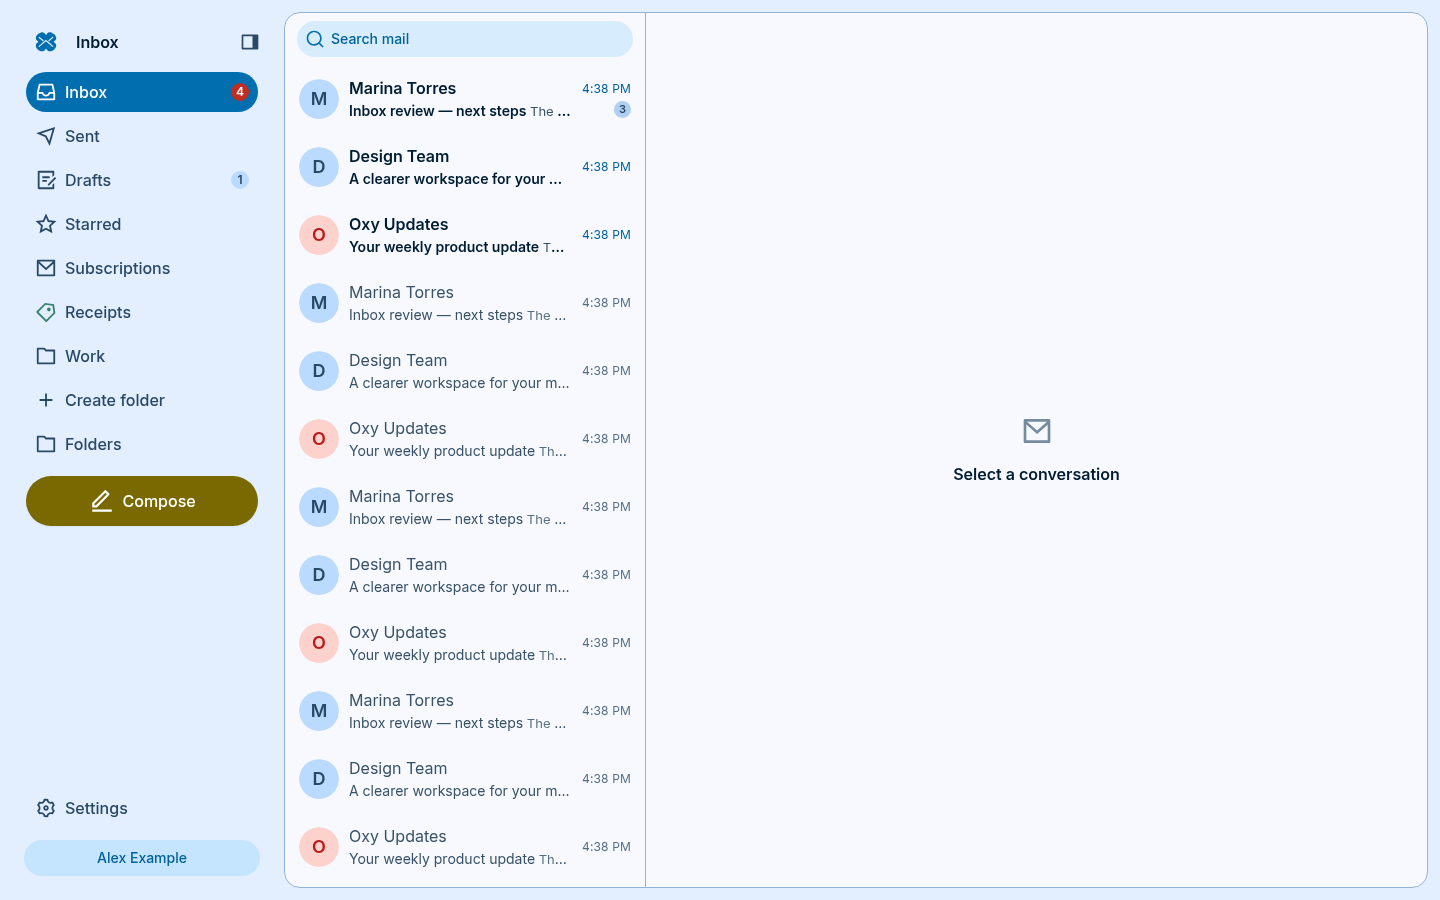
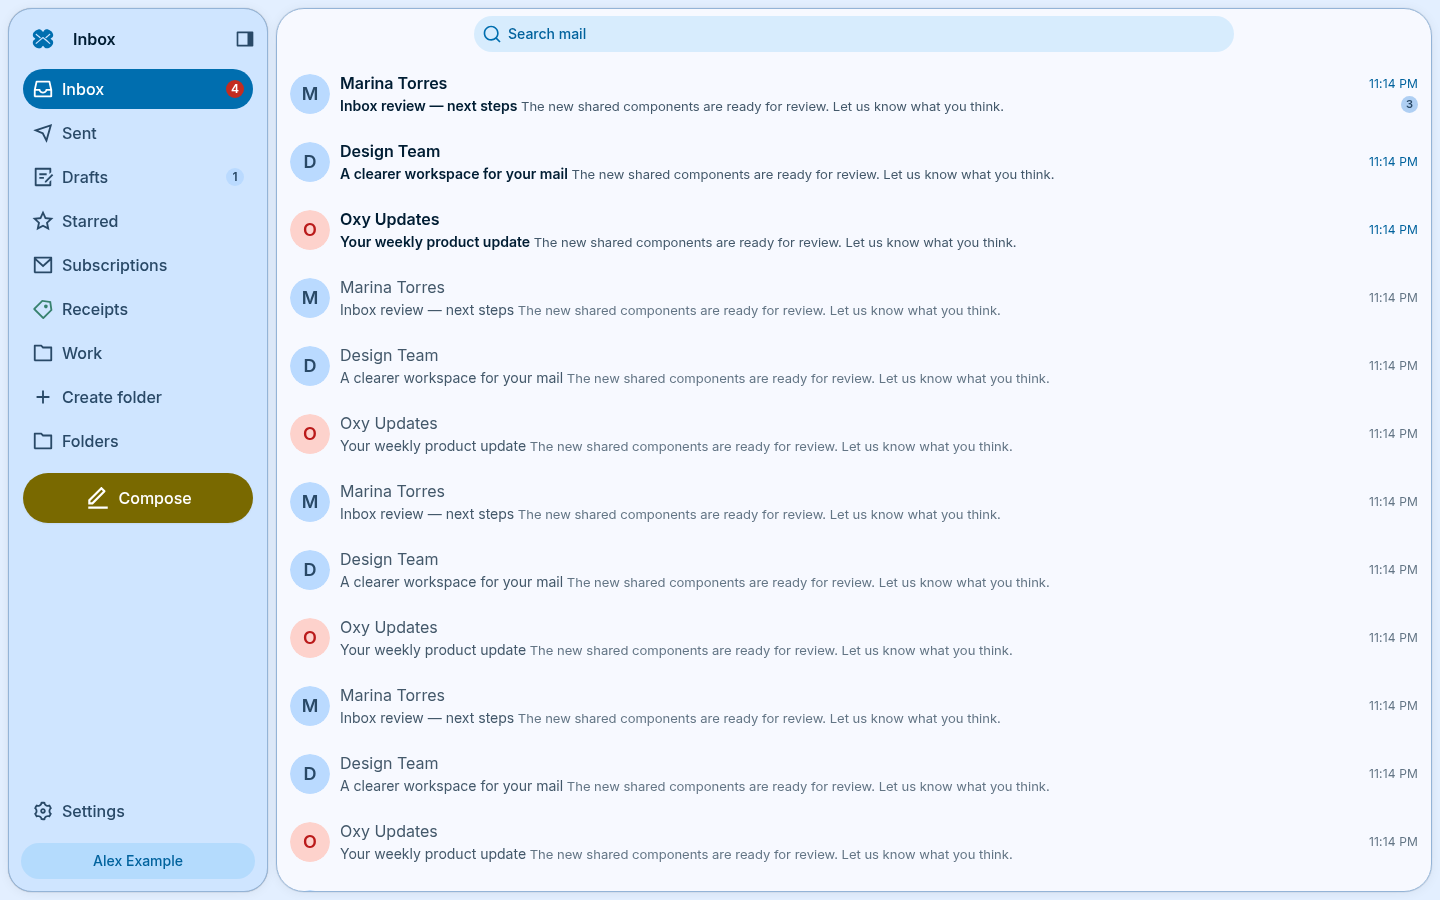
fix(inbox): compose the workspace with Bloom content panels

diff --git a/packages/frontend/components/MailboxShell.tsx b/packages/frontend/components/MailboxShell.tsx
@@ -1,6 +1,4 @@
 import { InboxBottomBar } from '@/components/InboxBottomBar';
-import { InboxList } from '@/components/InboxList';
-import { SearchList } from '@/components/SearchList';
 
 import { MailScrollProvider } from './MailScrollProvider';
 /** Mail navigation is data for Bloom's Sidebar; account/mail mutations remain owned by the SDK/app. */
@@ -88,9 +86,6 @@ export function MailboxShell({ children }: { children: ReactNode }) {
 
   const pathname = usePathname();
   const isDesktop = useIsDesktopLayout();
-  const searchRoute = pathname.startsWith('/search');
-  const fullPage =
-    pathname.startsWith('/settings') || pathname === '/subscriptions';
   const moreExpanded = useEmailStore((s) => s.moreExpanded);
   const toggleMore = useEmailStore((s) => s.toggleMore);
   const { data: mailboxes = [] } = useMailboxes();
@@ -371,34 +366,21 @@ export function MailboxShell({ children }: { children: ReactNode }) {
   return (
     <MailScrollProvider>
       <AppShell
-        variant="split"
-        pane="detail"
-        splitFrom={DESKTOP_BREAKPOINT}
-        paneScroll={false}
-        listWidth={360}
-        listMinWidth={280}
-        listMaxWidth={480}
-        list={
-          isDesktop && !fullPage ? (
-            searchRoute ? (
-              <SearchList replaceNavigation />
-            ) : (
-              <InboxList replaceNavigation />
-            )
-          ) : undefined
-        }
+        variant="feed"
+        panel
         scroll="fixed"
         drawer="overlay"
         header={null}
         navFrom={DESKTOP_BREAKPOINT}
         navExpandedFrom={1200}
-        gutter={12}
-        contentMaxWidth={1800}
+        navigationAlign="edge"
+        gutter={isDesktop ? 8 : 0}
+        contentWidth={1200}
+        testID="mail-workspace"
         bottomBar={<InboxBottomBar />}
         drawerOpen={drawerOpen}
         onDrawerOpenChange={setDrawerOpen}
         sidebar={{
-          surface: 'plain',
           size: 'md',
           items,
           selected,

diff --git a/packages/frontend/app/(drawer)/(tabs)/(inbox)/_layout.tsx b/packages/frontend/app/(drawer)/(tabs)/(inbox)/_layout.tsx
@@ -60,12 +60,8 @@ export default function InboxLayout() {
   }, [currentIndex, messages]);
 
   const handleCompose = useCallback(() => {
-    if (isDesktop) {
-      router.replace('/compose');
-    } else {
-      router.push('/compose');
-    }
-  }, [router, isDesktop]);
+    router.push('/compose');
+  }, [router]);
 
   const openReply = useCallback(
     (mode: ReplyMode) => {
@@ -74,7 +70,7 @@ export default function InboxLayout() {
         username: user?.username,
         email: user?.email,
       });
-      router.replace({
+      router.push({
         pathname: '/compose',
         params: {
           // The parent's ROW id — the composer loads the parent by it to build
@@ -104,7 +100,7 @@ export default function InboxLayout() {
   const handleForward = useCallback(() => {
     if (selectedMessageId && currentMessage) {
       if (isDesktop) {
-        router.replace({
+        router.push({
           pathname: '/compose',
           params: {
             forward: currentMessage._id,
@@ -180,12 +176,6 @@ export default function InboxLayout() {
     }
   }, [selectedMessageId, toggleRead]);
 
-  /**
-   * Closing returns to the plain list route. The list pane keeps its own view
-   * state in the store, so this does not reset which mailbox is shown — and
-   * with the pane closed the mailbox route's `MailboxView` never mounts to
-   * override it either.
-   */
   const helpControl = useDialogControl();
   const handleShowHelp = useCallback(() => {
     helpControl.open();
@@ -212,6 +202,7 @@ export default function InboxLayout() {
       <Stack
         screenOptions={{
           headerShown: false,
+          contentStyle: { backgroundColor: 'transparent' },
           animation: isDesktop ? 'none' : 'default',
         }}
       >

diff --git a/packages/frontend/components/MailboxView.tsx b/packages/frontend/components/MailboxView.tsx
@@ -1,4 +1,3 @@
-import { useIsDesktopLayout } from '@/hooks/useIsDesktopLayout';
 /**
  * Renders a system mailbox view (inbox, sent, drafts, trash, …) or a custom
  * folder addressed by its mailbox id.
@@ -7,15 +6,13 @@ import { useIsDesktopLayout } from '@/hooks/useIsDesktopLayout';
  *   - `(inbox)/index.tsx` — the inbox itself, which lives at `/`
  *   - `(inbox)/[view].tsx` — every other system mailbox at `/<view>`
  *
- * Desktop: shows empty state (the list is rendered by the layout)
- * Mobile: shows the inbox list
+ * The route owns the list at every width; Bloom owns its surrounding panel.
  */
 
 import Head from 'expo-router/head';
 import { useEffect, useMemo } from 'react';
 
 import { InboxList } from '@/components/InboxList';
-import { MessageDetailEmpty } from '@/components/MessageDetailEmpty';
 import { SPECIAL_USE } from '@/constants/mailbox';
 import { useMailboxes } from '@/hooks/queries/useMailboxes';
 import { useMessages } from '@/hooks/queries/useMessages';
@@ -45,7 +42,6 @@ const VIEW_TO_SPECIAL_USE: Record<string, string> = {
 };
 
 export function MailboxView({ view }: { view: string }) {
-  const isDesktop = useIsDesktopLayout();
   const { data: mailboxes = [] } = useMailboxes();
   const { t } = useTranslation();
 
@@ -111,7 +107,7 @@ export function MailboxView({ view }: { view: string }) {
       <Head>
         <title>{pageTitle}</title>
       </Head>
-      {isDesktop ? <MessageDetailEmpty /> : <InboxList />}
+      <InboxList />
     </>
   );
 }

diff --git a/packages/frontend/app/(drawer)/(tabs)/(inbox)/label/[name].tsx b/packages/frontend/app/(drawer)/(tabs)/(inbox)/label/[name].tsx
@@ -1,12 +1,10 @@
-import { useIsDesktopLayout } from '@/hooks/useIsDesktopLayout';
 /**
  * Dynamic route for label views — /label/<name>.
  *
  * Syncs the URL label name into the email store (Zustand) so `InboxList`
  * fetches messages filtered by the matching label.
  *
- * Desktop: shows empty detail pane (list lives in the layout).
- * Mobile: shows the inbox list filtered to the label.
+ * The filtered list occupies the shared Bloom panel on every platform.
  *
  * When the URL points to a label that doesn't exist (no match on
  * lowercased name), we surface the empty-detail component with a "not
@@ -25,7 +23,6 @@ import { useMessages } from '@/hooks/queries/useMessages';
 import { useEmailStore } from '@/hooks/useEmail';
 
 export default function LabelViewRoute() {
-  const isDesktop = useIsDesktopLayout();
   const { name } = useLocalSearchParams<{ name: string }>();
   const { data: labels = [] } = useLabels();
 
@@ -71,7 +68,7 @@ export default function LabelViewRoute() {
       <Head>
         <title>{pageTitle}</title>
       </Head>
-      {isDesktop ? <MessageDetailEmpty /> : <InboxList />}
+      {label ? <InboxList /> : <MessageDetailEmpty />}
     </>
   );
 }

diff --git a/packages/frontend/app/(drawer)/(tabs)/(inbox)/conversation/[id].tsx b/packages/frontend/app/(drawer)/(tabs)/(inbox)/conversation/[id].tsx
@@ -1,9 +1,7 @@
-import { useIsDesktopLayout } from '@/hooks/useIsDesktopLayout';
 /**
  * Conversation (message detail) route — /conversation/:id
  *
- * Desktop: rendered in Slot (right pane of split-view), embedded mode.
- * Mobile: pushed onto Stack, standalone mode with back button.
+ * One routed page inside Bloom’s content panel, with back navigation at every width.
  */
 
 import { useLocalSearchParams } from 'expo-router';
@@ -17,7 +15,6 @@ import { useTranslation } from '@/lib/i18n';
 
 export default function ConversationScreen() {
   const { id } = useLocalSearchParams<{ id: string }>();
-  const isDesktop = useIsDesktopLayout();
   const { t } = useTranslation();
 
   const { data: thread } = useThread(id);
@@ -44,7 +41,7 @@ export default function ConversationScreen() {
         <title>{pageTitle}</title>
       </Head>
       <MessageDetail
-        mode={isDesktop ? 'embedded' : 'standalone'}
+        mode="standalone"
         messageId={id}
       />
     </>

diff --git a/packages/frontend/app/(drawer)/(tabs)/search/conversation/[id].tsx b/packages/frontend/app/(drawer)/(tabs)/search/conversation/[id].tsx
@@ -1,9 +1,7 @@
-import { useIsDesktopLayout } from '@/hooks/useIsDesktopLayout';
 /**
  * Conversation detail within search context — /search/conversation/:id
  *
- * Desktop: rendered in Slot (right pane of split-view), embedded mode.
- * Mobile: pushed onto Stack, standalone mode with back button.
+ * One routed page inside Bloom’s content panel, with back navigation at every width.
  */
 
 import { useLocalSearchParams } from 'expo-router';
@@ -14,7 +12,6 @@ import { useEmailStore } from '@/hooks/useEmail';
 
 export default function SearchConversationScreen() {
   const { id } = useLocalSearchParams<{ id: string }>();
-  const isDesktop = useIsDesktopLayout();
 
   useEffect(() => {
     if (id) {
@@ -29,7 +26,7 @@ export default function SearchConversationScreen() {
 
   return (
     <MessageDetail
-      mode={isDesktop ? 'embedded' : 'standalone'}
+      mode="standalone"
       messageId={id}
     />
   );

diff --git a/packages/frontend/app/(drawer)/(tabs)/(inbox)/compose.tsx b/packages/frontend/app/(drawer)/(tabs)/(inbox)/compose.tsx
@@ -1,4 +1,3 @@
-import { useIsDesktopLayout } from '@/hooks/useIsDesktopLayout';
 import { useLocalSearchParams } from 'expo-router';
 import Head from 'expo-router/head';
 
@@ -6,7 +5,6 @@ import { ComposeForm } from '@/components/ComposeForm';
 import { useTranslation } from '@/lib/i18n';
 
 export default function ComposeRoute() {
-  const isDesktop = useIsDesktopLayout();
   const { t } = useTranslation();
   const params = useLocalSearchParams<{
     replyTo?: string;
@@ -28,7 +26,7 @@ export default function ComposeRoute() {
         <title>{pageTitle}</title>
       </Head>
       <ComposeForm
-        mode={isDesktop ? 'embedded' : 'standalone'}
+        mode="standalone"
         replyTo={params.replyTo}
         forward={params.forward}
         to={params.to}

diff --git a/packages/frontend/app/(drawer)/(tabs)/search/index.tsx b/packages/frontend/app/(drawer)/(tabs)/search/index.tsx
@@ -1,20 +1,6 @@
-import { useIsDesktopLayout } from '@/hooks/useIsDesktopLayout';
-/**
- * Index route for the (search) group.
- *
- * Desktop: rendered in the Slot (right pane) — shows empty state.
- * Mobile: rendered as the main screen — shows the search list.
- */
-
-import { MessageDetailEmpty } from '@/components/MessageDetailEmpty';
 import { SearchList } from '@/components/SearchList';
 
+/** Search stays in the same routed Bloom panel at every width. */
 export default function SearchIndex() {
-  const isDesktop = useIsDesktopLayout();
-
-  if (isDesktop) {
-    return <MessageDetailEmpty />;
-  }
-
   return <SearchList />;
 }

diff --git a/packages/frontend/components/MessageDetail.tsx b/packages/frontend/components/MessageDetail.tsx
@@ -561,7 +561,6 @@ function MessageDetailInner({ mode, messageId }: MessageDetailProps) {
 
   const shellStyle = [
     styles.container,
-    { backgroundColor: colors.background },
     mode === 'standalone' && { paddingTop: insets.top },
   ];
 
@@ -712,7 +711,6 @@ function MessageDetailInner({ mode, messageId }: MessageDetailProps) {
     <View
       style={[
         styles.container,
-        { backgroundColor: colors.background },
         mode === 'standalone' && { paddingTop: insets.top },
       ]}
     >

diff --git a/packages/frontend/app/(drawer)/(tabs)/_layout.tsx b/packages/frontend/app/(drawer)/(tabs)/_layout.tsx
@@ -21,7 +21,13 @@ export default function TabsLayout() {
   return (
     <>
       <ResetTabBarOnRouteChange />
-      <Tabs tabBar={() => null} screenOptions={{ headerShown: false }}>
+      <Tabs
+        tabBar={() => null}
+        screenOptions={{
+          headerShown: false,
+          sceneStyle: { backgroundColor: 'transparent' },
+        }}
+      >
         <Tabs.Screen name="(inbox)" />
         <Tabs.Screen name="search" />
         <Tabs.Screen name="settings/index" options={{ href: null }} />

diff --git a/packages/frontend/components/InboxList.tsx b/packages/frontend/components/InboxList.tsx
@@ -1050,7 +1050,7 @@ export function InboxList({ replaceNavigation }: InboxListProps) {
   }, [isFetchingNextPage]);
 
   return (
-    <View style={[styles.container, { backgroundColor: colors.background }]}>
+    <View style={styles.container}>
       {isSelectionMode ? (
         <SelectionToolbar
           count={selectedMessageIds.size}

diff --git a/packages/frontend/components/SearchList.tsx b/packages/frontend/components/SearchList.tsx
@@ -635,7 +635,7 @@ export function SearchList({ replaceNavigation }: SearchListProps) {
   );
 
   return (
-    <View style={[styles.container, { backgroundColor: colors.background }]}>
+    <View style={styles.container}>
       {/* Header and filters stay in flow above the virtualized results. */}
       <View>
         <SearchHeader
